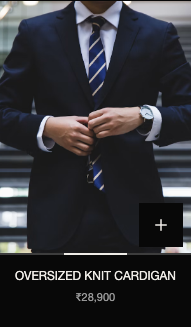
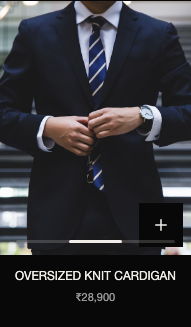
feat: simplify storefront navigation and smooth gallery gestures

Changed region(s): [[0.0, 0.7339, 1.0, 0.7951]]

diff --git a/client/components/shop/product-card-gallery.tsx b/client/components/shop/product-card-gallery.tsx
@@ -2,7 +2,7 @@
 
 import Link from 'next/link';
 import {ChevronLeft,ChevronRight} from 'lucide-react';
-import {useCallback,useEffect,useMemo,useRef,useState,type ReactNode} from 'react';
+import {useCallback,useEffect,useMemo,useRef,useState,type CSSProperties,type ReactNode} from 'react';
 import {SafeImage} from '@/components/shared/safe-image';
 import {useStorefrontReducedMotion} from '@/hooks/useStorefrontMotion';
 import {EDITORIAL_COPY as C} from '@/constants/editorial-copy';
@@ -18,7 +18,9 @@ export function ProductCardGallery({product,priority=false}:ProductCardGalleryPr
  const drag=useRef<MouseDrag|null>(null);
  const suppressClick=useRef(false);
  const scrollFrame=useRef(0);
+ const snapTimer=useRef<ReturnType<typeof setTimeout>|undefined>(undefined);
  const currentRef=useRef(0);
+ const measuredWidth=useRef(0);
  const [current,setCurrent]=useState(0);
  const [dragging,setDragging]=useState(false);
  const images=useMemo(()=>{
@@ -35,7 +37,9 @@ export function ProductCardGallery({product,priority=false}:ProductCardGalleryPr
   setVisited(previous=>previous.has(target)?previous:new Set([...previous,target]));
   const immediate=instant||reduced;
   if(immediate){currentRef.current=target;setCurrent(target);}
-  element.scrollTo({left:target*element.clientWidth,behavior:immediate?'auto':'smooth'});
+  clearTimeout(snapTimer.current);element.style.scrollSnapType='none';
+  element.scrollTo({left:target*element.clientWidth,behavior:immediate?'instant':'smooth'});
+  snapTimer.current=setTimeout(()=>{element.style.scrollSnapType='';},immediate?0:600);
  },[images.length,reduced]);
  useEffect(()=>{
   currentRef.current=0;setCurrent(0);setVisited(new Set([0]));
@@ -43,32 +47,32 @@ export function ProductCardGallery({product,priority=false}:ProductCardGalleryPr
  },[product.id,identity]);
  useEffect(()=>{
   const element=viewport.current;if(!element)return;
-  let width=element.clientWidth;
-  const observer=new ResizeObserver(()=>{const next=element.clientWidth;if(next>0&&Math.abs(next-width)>.5){width=next;goTo(currentRef.current,true);}});observer.observe(element);
-  return()=>{observer.disconnect();cancelAnimationFrame(scrollFrame.current);};
+  let width=element.clientWidth;measuredWidth.current=width;
+  const observer=new ResizeObserver(()=>{const next=element.clientWidth;if(next>0&&Math.abs(next-width)>.5){width=next;measuredWidth.current=next;goTo(currentRef.current,true);}});observer.observe(element);
+  return()=>{observer.disconnect();cancelAnimationFrame(scrollFrame.current);clearTimeout(snapTimer.current);};
  },[goTo]);
  const position=C.imagePosition.replace('{current}',String(current+1)).replace('{total}',String(images.length));
  return <div className="product-card-gallery" role="group" aria-roledescription={images.length>1?C.imageCarousel:undefined} aria-label={C.productImages.replace('{product}',product.title)} data-image-count={images.length} data-active-image={current+1}>
-  <div ref={viewport} className="product-card-gallery-viewport" data-dragging={dragging} tabIndex={images.length>1?0:undefined} data-lenis-prevent-wheel
-   onScroll={()=>{cancelAnimationFrame(scrollFrame.current);scrollFrame.current=requestAnimationFrame(()=>{const element=viewport.current;if(!element?.clientWidth)return;const index=Math.max(0,Math.min(images.length-1,Math.round(element.scrollLeft/element.clientWidth)));currentRef.current=index;setCurrent(index);setVisited(previous=>previous.has(index)?previous:new Set([...previous,index]));});}}
+  <div ref={viewport} className="product-card-gallery-viewport" data-dragging={dragging} tabIndex={images.length>1?0:undefined} data-lenis-prevent
+   onScroll={()=>{cancelAnimationFrame(scrollFrame.current);scrollFrame.current=requestAnimationFrame(()=>{const element=viewport.current;if(!element?.clientWidth)return;if(Math.abs(element.clientWidth-measuredWidth.current)>.5){measuredWidth.current=element.clientWidth;goTo(currentRef.current,true);return;}const index=Math.max(0,Math.min(images.length-1,Math.round(element.scrollLeft/element.clientWidth)));currentRef.current=index;setCurrent(index);setVisited(previous=>previous.has(index)?previous:new Set([...previous,index]));});}}
    onKeyDown={event=>{if(images.length<2||event.altKey||event.ctrlKey||event.metaKey)return;const next=event.key==='ArrowRight'?currentRef.current+1:event.key==='ArrowLeft'?currentRef.current-1:event.key==='Home'?0:event.key==='End'?images.length-1:null;if(next!==null){event.preventDefault();goTo(next);}}}
    onDragStart={event=>event.preventDefault()}
    onPointerDown={event=>{suppressClick.current=false;if(images.length<2||event.pointerType!=='mouse'||event.button!==0)return;const element=event.currentTarget;drag.current={pointer:event.pointerId,x:event.clientX,y:event.clientY,left:element.scrollLeft,index:currentRef.current,active:false};}}
-   onPointerMove={event=>{const gesture=drag.current;if(!gesture||gesture.pointer!==event.pointerId)return;const dx=event.clientX-gesture.x,dy=event.clientY-gesture.y;if(!gesture.active){if(Math.abs(dx)<motion.dragStart||Math.abs(dx)<=Math.abs(dy))return;gesture.active=true;suppressClick.current=true;setDragging(true);event.currentTarget.setPointerCapture(event.pointerId);}event.preventDefault();event.currentTarget.scrollLeft=gesture.left-dx;}}
-   onPointerUp={event=>{const gesture=drag.current;drag.current=null;if(!gesture?.active)return;setDragging(false);if(event.currentTarget.hasPointerCapture(event.pointerId))event.currentTarget.releasePointerCapture(event.pointerId);const distance=event.clientX-gesture.x,width=event.currentTarget.clientWidth;const steps=Math.abs(distance)>Math.min(width*motion.swipeFraction,motion.maxSwipeThreshold)?Math.max(1,Math.round(Math.abs(distance)/width)):0;const target=gesture.index+(distance<0?steps:-steps);requestAnimationFrame(()=>goTo(target));}}
+   onPointerMove={event=>{const gesture=drag.current;if(!gesture||gesture.pointer!==event.pointerId)return;const dx=event.clientX-gesture.x,dy=event.clientY-gesture.y;if(!gesture.active){if(Math.abs(dx)<motion.dragStart||Math.abs(dx)<=Math.abs(dy))return;gesture.active=true;suppressClick.current=true;setDragging(true);event.currentTarget.dataset.dragging='true';event.currentTarget.setPointerCapture(event.pointerId);}event.preventDefault();event.currentTarget.scrollLeft=gesture.left-dx;}}
+   onPointerUp={event=>{const gesture=drag.current;drag.current=null;if(!gesture?.active)return;setDragging(false);if(event.currentTarget.hasPointerCapture(event.pointerId))event.currentTarget.releasePointerCapture(event.pointerId);const distance=event.clientX-gesture.x,width=event.currentTarget.clientWidth;const steps=Math.abs(distance)>Math.min(width*motion.swipeFraction,motion.maxSwipeThreshold)?Math.max(1,Math.round(Math.abs(distance)/width)):0;const target=gesture.index+(distance<0?steps:-steps);goTo(target);}}
    onPointerCancel={()=>{const gesture=drag.current;drag.current=null;if(!gesture?.active)return;setDragging(false);goTo(currentRef.current,true);}}
    onLostPointerCapture={()=>{drag.current=null;setDragging(false);}}
    onClickCapture={event=>{if(suppressClick.current&&event.detail!==0){event.preventDefault();event.stopPropagation();suppressClick.current=false;}}}
   >
    {images.map((image,index)=><div className="product-card-gallery-slide" key={image.url} aria-hidden={index!==current}>
     <Link href={`/product/${product.slug}`} aria-label={product.title} tabIndex={index===current?0:-1} draggable={false}>
-     {(Math.abs(index-current)<=1||visited.has(index))&&<SafeImage src={image.url} alt={image.alt||product.title} fill sizes="(min-width:1024px) 25vw, 50vw" priority={priority&&index===0} loading={index===0?(priority?undefined:'lazy'):index===current?'eager':'lazy'} className="editorial-product-image" draggable={false}/>}
+     {(Math.abs(index-current)<=2||visited.has(index))&&<SafeImage src={image.url} alt={image.alt||product.title} fill sizes="(min-width:1024px) 25vw, 50vw" priority={priority&&index===0} loading={index===0?(priority?undefined:'lazy'):'eager'} className="editorial-product-image" draggable={false}/>}
     </Link>
    </div>)}
   </div>
   {images.length>1&&<>
    <div className="product-card-gallery-arrows"><button type="button" onClick={()=>goTo(currentRef.current-1)} disabled={current===0} aria-label={C.previousProductImage.replace('{product}',product.title)}><ChevronLeft size={18} strokeWidth={1.3}/></button><button type="button" onClick={()=>goTo(currentRef.current+1)} disabled={current===images.length-1} aria-label={C.nextProductImage.replace('{product}',product.title)}><ChevronRight size={18} strokeWidth={1.3}/></button></div>
-   <div className="product-card-gallery-progress" role="progressbar" aria-label={C.imageProgress} aria-valuemin={1} aria-valuemax={images.length} aria-valuenow={current+1} aria-valuetext={position}>{images.map((image,index)=><span key={image.url} data-active={index===current}/>)}</div>
+   <div className="product-card-gallery-progress" role="progressbar" aria-label={C.imageProgress} aria-valuemin={1} aria-valuemax={images.length} aria-valuenow={current+1} aria-valuetext={position} style={{'--gallery-count':images.length,'--gallery-index':current} as CSSProperties}>{images.map((image,index)=><span key={image.url} data-active={index===current}/>)}</div>
    <span className="sr-only" aria-live="polite" aria-atomic="true">{position}</span>
   </>}
  </div>;

diff --git a/client/components/shop/product-listing-page.tsx b/client/components/shop/product-listing-page.tsx
@@ -193,8 +193,8 @@ export function ProductListingPage({ pageType, pageSlug, eyebrow = COPY.shop.eye
   const chips = useMemo<FilterChip[]>(() => {
     const sourceTags: FilterChip[] = (tags.data ?? []).filter((tag) => tag.isVisible).map((tag) => ({ label: tag.name, value: tag.slug, kind: tag.slug === 'view-all' ? 'clear' : 'tag' }));
     if ((categories.data?.length??0) === 0 && sourceTags.length > 0) return sourceTags;
-    return [{ label: 'View All', value: 'view-all', kind: 'clear' }, ...(categories.data ?? []).filter((item) => item.showInFilters !== false).map((item) => ({ label: item.name, value: item.path ?? item.slug, kind: 'category' as const }))];
-  }, [categories.data, tags.data]);
+    return [{ label: 'View All', value: 'view-all', kind: 'clear' }, ...(categories.data ?? []).filter((item) => item.showInFilters !== false && (!pathname.startsWith('/men') && !pathname.startsWith('/women') || (item.path??'').startsWith(pathname.startsWith('/men')?'men/':'women/'))).map((item) => ({ label: item.name, value: item.path ?? item.slug, kind: 'category' as const }))];
+  }, [categories.data, tags.data, pathname]);
 
   const pushParams = (updates: Record<string, string | null>): void => {
     const next = new URLSearchParams(params.toString());
@@ -238,11 +238,8 @@ export function ProductListingPage({ pageType, pageSlug, eyebrow = COPY.shop.eye
 
   return <main className="collection-page">
     <h1 className="sr-only">{pageTitle}</h1>
-    {showCollectionCarousel && (siteSettings.data?.isCollectionCarouselEnabled ?? true) && (collections.data?.length ?? 0)>0 && <div className="collection-carousel"><CollectionCarousel collections={collections.data??[]} activeSlug={collectionSlug}/></div>}
-    {configuredHero && heroMediaVisible && <div data-testid="listing-hero-media" className="collection-campaign">{heroVideo?<video poster={videoPoster} autoPlay={!reducedMotion&&(categoryData?.videoAutoplay??true)} muted loop={categoryData?.videoLoop??true} playsInline controls={reducedMotion} preload="metadata"><source media="(max-width:639px)" src={mobileHeroVideo}/><source src={heroVideo}/></video>:<>{heroImage&&<Image src={heroImage} alt={pageTitle} fill sizes="100vw" className="hidden object-cover sm:block"/>}{mobileHeroImage&&<Image src={mobileHeroImage} alt={pageTitle} fill sizes="100vw" className="object-cover sm:hidden"/>}</>}<div><h2>{pageTitle}</h2><p>{rawPageSubtitle}</p></div></div>}
-    {bannerVisible&&(bannerImage||bannerVideo||bannerTitle)&&<section className="collection-banner">{(bannerImage||bannerVideo)&&<div className="collection-banner-media">{bannerVideo?<video autoPlay={!reducedMotion} muted loop playsInline controls={reducedMotion} preload="metadata"><source media="(max-width:639px)" src={mobileBannerVideo}/><source src={bannerVideo}/></video>:<>{bannerImage&&<Image src={bannerImage} alt={bannerTitle??pageTitle} fill sizes="100vw" className="hidden object-cover sm:block"/>}{mobileBannerImage&&<Image src={mobileBannerImage} alt={bannerTitle??pageTitle} fill sizes="100vw" className="object-cover sm:hidden"/>}</>}</div>}<div>{bannerTitle&&<h2>{bannerTitle}</h2>}{bannerSubtitle&&<p>{bannerSubtitle}</p>}{settings?.ctaText&&bannerLink.success&&<a href={bannerLink.data}>{settings.ctaText}</a>}</div></section>}
     {filtersVisible&&<nav className="collection-categories" aria-label="Product categories">{chips.map(chip=><button type="button" key={chip.kind+chip.value} aria-pressed={activeCategory===chip.value||activeTags===chip.value||(chip.kind==='clear'&&!activeCategory&&!activeTags)} onClick={()=>selectChip(chip)}>{chip.label}</button>)}</nav>}
-    <div className="collection-toolbar" data-testid="listing-toolbar"><button type="button" ref={filterTrigger} className="collection-filter-trigger" onClick={()=>setAdvancedOpen(true)} disabled={!advancedVisible}><SlidersHorizontal size={18} strokeWidth={1.2}/>{C.filters}</button><button type="button" className="collection-window-toggle" aria-label={dense?C.regularGrid:C.denseGrid} aria-pressed={dense} title={dense?C.regularGrid:C.denseGrid} onClick={toggleDensity}><svg viewBox="0 0 32 40" aria-hidden="true"><path d="M5 37V16a11 11 0 0 1 22 0v21Z"/><path d="M16 5v32M5 20h22M5 29h22"/><path className="collection-window-left" d="M5 20 1 16V5l4 11v21l-4-5V16"/><path className="collection-window-right" d="m27 20 4-4V5l-4 11v21l4-5V16"/></svg></button><SortSelect value={sort} onChange={updateSort}/></div>
+    <div className="collection-toolbar" data-testid="listing-toolbar"><button type="button" ref={filterTrigger} className="collection-filter-trigger" onClick={()=>setAdvancedOpen(true)} disabled={!advancedVisible}><SlidersHorizontal size={18} strokeWidth={1.2}/>{C.filters}</button><button type="button" className="collection-window-toggle" aria-label={dense?C.regularGrid:C.denseGrid} aria-pressed={dense} title={dense?C.regularGrid:C.denseGrid} onClick={toggleDensity}><svg viewBox="0 0 32 32" aria-hidden="true"><path className="view-depth" d="m6 7 3-2h18v20l-3 2"/><rect x="5" y="7" width="20" height="20" rx="3"/><path d={dense?'M10 7v20m5-20v20m5-20v20M5 12h20M5 17h20M5 22h20':'M15 7v20M5 17h20'}/></svg></button><SortSelect value={sort} onChange={updateSort}/></div>
     {appliedVariantFilters.length>0&&<div className="collection-applied" aria-label="Applied product filters">{appliedVariantFilters.map(filter=><button type="button" key={filter.key} onClick={()=>pushParams({[filter.key]:null})} aria-label={`Remove ${filter.label}`}>{filter.label} ×</button>)}<button type="button" onClick={clearAdvanced}>{C.clear}</button></div>}
     <section aria-label={pageTitle} aria-busy={products.isFetching}>
       {products.isLoading?<div className="collection-product-grid" aria-label={C.loading}>{[0,1,2,3].map(index=><SkeletonCard key={index}/>)}</div>:products.isError?<div className="collection-empty" role="alert"><h2>{C.loadError}</h2><button type="button" onClick={()=>void products.refetch()}>{C.retry}</button></div>:items.length>0?<div className="collection-product-grid" data-view={view} data-density={dense?'dense':'regular'}>{items.map((product,index)=><EditorialProductCard key={product.id} product={product} priority={index<4}/>)}</div>:<EmptyState title={COPY.shop.emptyTitle} body={COPY.cart.emptyBody} cta={COPY.shop.emptyCta} href={pathname}/>}

diff --git a/client/components/layout/navbar.tsx b/client/components/layout/navbar.tsx
@@ -1,5 +1,6 @@
 // Governed by .rules v1.0
 'use client';
+import {storefrontNavigation,storefrontDepartments} from '@/lib/storefront-navigation';
 
 import { Heart, Search, ShoppingBag } from 'lucide-react';
 import { motion } from 'framer-motion';
@@ -40,7 +41,7 @@ export function Navbar(_props: NavbarProps): ReactNode {
   const navigation = useNavigation();
   const siteSettings = useSiteSettings();
   const isNavigationVisible = siteSettings.data?.isStorefrontNavigationVisible ?? true;
-  const navItems = useMemo(() => (isNavigationVisible ? (navigation.data ?? []).filter((item) => item.isVisible) : []), [isNavigationVisible, navigation.data]);
+  const navItems = useMemo(() => (isNavigationVisible ? storefrontNavigation(navigation.data ?? []) : []), [isNavigationVisible, navigation.data]);
   const activeItem = navItems.find((item) => navId(item) === activeId) ?? null;
   const defaultMenuItem = useMemo(() => {
     const routeItem = navItems.find((item) => item.href !== '/' && pathname.startsWith(item.href) && item.isMegaMenuEnabled);
@@ -105,7 +106,7 @@ export function Navbar(_props: NavbarProps): ReactNode {
           </button>
         </div>
       </div>
-      {!isProduct&&!isCatalogue&&!mobile&&isNavigationVisible&&<nav className="editorial-header-links" aria-label="Shopping departments">{navItems.filter(item=>item.href!=='/').slice(0,8).map(item=><Link href={item.href} key={navId(item)}>{item.label}</Link>)}</nav>}
+      {!isProduct&&!isCatalogue&&!mobile&&isNavigationVisible&&<nav className="editorial-header-links" aria-label="Shopping departments">{(isHomepage?storefrontDepartments.slice(0,2):navItems).map(item=><Link href={item.href} key={item.href}>{item.label}</Link>)}</nav>}
       <MobileNav
         open={mobile}
         onOpenChange={setMobile}
@@ -120,40 +121,4 @@ export function Navbar(_props: NavbarProps): ReactNode {
   );
 }
 
-function AnimatedMenuButton({ open, onClick }: { open: boolean; onClick: () => void }): ReactNode {
-  return (
-    <button
-      type="button"
-      aria-label={COPY.nav.menu}
-      aria-expanded={open}
-      onClick={onClick}
-      className="group relative flex h-11 w-11 items-center justify-center text-text-primary transition duration-300 hover:text-accent-gold"
-    >
-      <span className="sr-only">{COPY.nav.menu}</span>
-      <span data-testid="sleek-menu-mark" className="relative block h-[18px] w-7">
-        <motion.span
-          aria-hidden="true"
-          data-menu-line="top"
-          className="absolute left-0 top-0.5 h-px w-7 origin-center rounded-full bg-current"
-          animate={open ? { x: 2, y: 7, rotate: 45, width: 24, opacity: 1 } : { x: 0, y: 0, rotate: 0, width: 28, opacity: 1 }}
-          transition={{ duration: 0.28, ease: [0.25, 0.1, 0.25, 1] }}
-        />
-        <motion.span
-          aria-hidden="true"
-          data-menu-line="middle"
-          className="absolute left-1 top-2 h-px w-5 rounded-full bg-current"
-          animate={open ? { opacity: 0, x: 10, width: 0 } : { opacity: 0.78, x: 0, width: 20 }}
-          transition={{ duration: 0.22, ease: [0.25, 0.1, 0.25, 1] }}
-        />
-        <motion.span
-          aria-hidden="true"
-          data-menu-line="bottom"
-          className="absolute bottom-0.5 left-2 h-px w-3 origin-center rounded-full bg-current"
-          animate={open ? { x: -6, y: -7, rotate: -45, width: 24, opacity: 1 } : { x: 0, y: 0, rotate: 0, width: 12, opacity: 0.56 }}
-          transition={{ duration: 0.28, ease: [0.25, 0.1, 0.25, 1] }}
-        />
-      </span>
-      <span aria-hidden="true" className="pointer-events-none absolute inset-2 scale-75 rounded-full bg-accent-gold/0 blur-md transition duration-300 group-hover:scale-100 group-hover:bg-accent-gold/10" />
-    </button>
-  );
-}
+function AnimatedMenuButton({open,onClick}:{open:boolean;onClick:()=>void}):ReactNode{return <button type="button" aria-label={COPY.nav.menu} aria-expanded={open} onClick={onClick} className="cruisin-menu-control" data-open={open}><span/><span/></button>;}

diff --git a/client/components/product/image-gallery.tsx b/client/components/product/image-gallery.tsx
@@ -1,4 +1,5 @@
 'use client';
+import {useGalleryDrag} from '@/hooks/useGalleryDrag';
 import {useRef,useState,useEffect,type ReactNode} from 'react';
 import {ChevronLeft,ChevronRight} from 'lucide-react';
 import {SafeImage} from '@/components/shared/safe-image';
@@ -7,9 +8,10 @@ import {STOREFRONT_COPY as C} from '@/constants/storefront-copy';
 import type {ProductImage} from '@/types/product.types';
 export interface ImageGalleryProps {images:ProductImage[];}
 export function ImageGallery({images}:ImageGalleryProps):ReactNode{
+ const drag=useGalleryDrag();
  const gallery=images.length?images:[{url:'/cruisin-image-fallback.svg',alt:C.gallery,width:900,height:1200}];
  const track=useRef<HTMLDivElement>(null);const [active,setActive]=useState(0);const reduced=useStorefrontReducedMotion();const first=gallery[0]?.url;
  useEffect(()=>{setActive(0);track.current?.scrollTo({left:0,behavior:'instant'});},[first]);
  const move=(index:number):void=>{const node=track.current;const slide=node?.children[index] as HTMLElement|undefined;if(!node||!slide)return;node.scrollTo({left:slide.offsetLeft,behavior:reduced?'instant':'smooth'});};
- return <section className="pdp-gallery" aria-label={C.gallery}><div className="pdp-gallery-track" data-scroll-native ref={track} onScroll={()=>{const node=track.current;if(!node)return;const slides=Array.from(node.children) as HTMLElement[];let nearest=0;for(let i=1;i<slides.length;i++)if(Math.abs(slides[i].offsetLeft-node.scrollLeft)<Math.abs(slides[nearest].offsetLeft-node.scrollLeft))nearest=i;setActive(nearest);}}>{gallery.map((image,index)=><div className="pdp-gallery-slide" key={image.url}><SafeImage src={image.url} alt={image.alt} fill sizes="(min-width:1024px) 48vw, 100vw" priority={index<2} className="pdp-gallery-image"/></div>)}</div>{gallery.length>1&&<><div className="pdp-gallery-controls"><button type="button" aria-label={C.previous} disabled={active===0} onClick={()=>move(active-1)}><ChevronLeft size={18}/></button><button type="button" aria-label={C.next} disabled={active===gallery.length-1} onClick={()=>move(active+1)}><ChevronRight size={18}/></button><span aria-live="polite">{active+1} / {gallery.length}</span></div><div className="pdp-gallery-dots">{gallery.map((image,index)=><button key={image.url} type="button" aria-label={`${C.gallery} ${index+1}`} aria-current={active===index?'true':undefined} onClick={()=>move(index)}/>)}</div></>}</section>;
+ return <section className="pdp-gallery" aria-label={C.gallery}><div className="pdp-gallery-track" data-lenis-prevent data-scroll-native ref={track} {...drag} onScroll={()=>{const node=track.current;if(!node)return;const slides=Array.from(node.children) as HTMLElement[];let nearest=0;for(let i=1;i<slides.length;i++)if(Math.abs(slides[i].offsetLeft-node.scrollLeft)<Math.abs(slides[nearest].offsetLeft-node.scrollLeft))nearest=i;setActive(nearest);}}>{gallery.map((image,index)=><div className="pdp-gallery-slide" key={image.url}><SafeImage src={image.url} alt={image.alt} fill sizes="(min-width:1024px) 48vw, 100vw" priority={index<2} className="pdp-gallery-image" draggable={false}/></div>)}</div>{gallery.length>1&&<><div className="pdp-gallery-controls"><button type="button" aria-label={C.previous} disabled={active===0} onClick={()=>move(active-1)}><ChevronLeft size={18}/></button><button type="button" aria-label={C.next} disabled={active===gallery.length-1} onClick={()=>move(active+1)}><ChevronRight size={18}/></button><span aria-live="polite">{active+1} / {gallery.length}</span></div><div className="pdp-gallery-dots">{gallery.map((image,index)=><button key={image.url} type="button" aria-label={`${C.gallery} ${index+1}`} aria-current={active===index?'true':undefined} onClick={()=>move(index)}/>)}</div></>}</section>;
 }

diff --git a/client/e2e/product-card-gallery.spec.ts b/client/e2e/product-card-gallery.spec.ts
@@ -24,7 +24,7 @@ async function touch(page:Page,x1:number,y1:number,x2:number,y2:number):Promise<
 
 test('desktop arrows and keyboard browse real card photos, and a normal photo click opens the product',async({page,request})=>{
  const {card,gallery,viewport,product}=await openGallery(page,request);const starting=page.url();
- await expect(gallery.locator('img')).toHaveCount(2);
+ await expect(gallery.locator('img')).toHaveCount(3);
  await card.hover();await gallery.getByRole('button',{name:/Next image/}).click();await expect(gallery).toHaveAttribute('data-active-image','2');await expect(page).toHaveURL(starting);await expect(gallery.getByRole('progressbar')).toHaveAttribute('aria-valuenow','2');await settled(viewport,1);
  await viewport.focus();await page.keyboard.press('End');await expect(gallery).toHaveAttribute('data-active-image','3');await page.keyboard.press('Home');await expect(gallery).toHaveAttribute('data-active-image','1');await page.keyboard.press('ArrowRight');await expect(gallery).toHaveAttribute('data-active-image','2');
  await page.keyboard.press('Home');await expect(gallery).toHaveAttribute('data-active-image','1');await viewport.hover();const wheelWidth=await viewport.evaluate(el=>el.clientWidth);await page.mouse.wheel(wheelWidth*.7,0);await expect(gallery).toHaveAttribute('data-active-image','2');
@@ -57,7 +57,7 @@ test('the active photo survives responsive and window-grid changes, including re
  const {card,gallery,viewport}=await openGallery(page,request);await viewport.focus();await page.keyboard.press('ArrowRight');await expect(gallery).toHaveAttribute('data-active-image','2');
  for(const width of [375,768,1440]){await page.setViewportSize({width,height:1000});await expect(gallery).toHaveAttribute('data-active-image','2');await expect.poll(()=>viewport.evaluate(el=>Math.round(el.scrollLeft/el.clientWidth))).toBe(1);await expect.poll(()=>page.evaluate(()=>document.documentElement.scrollWidth<=innerWidth)).toBe(true);}
  await page.setViewportSize({width:390,height:844});await page.getByRole('button',{name:'Switch to window grid',exact:true}).click();await expect.poll(()=>viewport.evaluate(el=>Math.round(el.scrollLeft/el.clientWidth))).toBe(1);await expect(gallery).toHaveAttribute('data-active-image','2');
- await page.getByRole('button',{name:'Switch to regular grid',exact:true}).click();await page.getByRole('combobox',{name:'Color theme',exact:true}).selectOption('dark');await expect(page.locator('html')).toHaveClass(/dark/);await gallery.scrollIntoViewIfNeeded();expect((await new AxeBuilder({page}).include('.editorial-product-card').withTags(['wcag2a','wcag2aa']).analyze()).violations).toEqual([]);await settled(viewport,1);await card.screenshot({path:resolve('../docs/qa/screenshots/cruisin-v2-card-gallery-mobile-dark.png')});
+ await page.getByRole('button',{name:'Switch to regular grid',exact:true}).click();await page.getByRole('button',{name:'Open Cruisin quick menu',exact:true}).click();await page.getByRole('button',{name:'Switch to dark mode',exact:true}).click();await expect(page.locator('html')).not.toHaveAttribute('data-theme-reveal','active');await page.keyboard.press('Escape');await expect(page.locator('html')).toHaveClass(/dark/);await gallery.scrollIntoViewIfNeeded();expect((await new AxeBuilder({page}).include('.editorial-product-card').withTags(['wcag2a','wcag2aa']).analyze()).violations).toEqual([]);await settled(viewport,1);await card.screenshot({path:resolve('../docs/qa/screenshots/cruisin-v2-card-gallery-mobile-dark.png')});
  await page.emulateMedia({reducedMotion:'reduce'});await viewport.focus();await page.keyboard.press('End');await expect(gallery).toHaveAttribute('data-active-image','3');await settled(viewport,2);
 });
 

diff --git a/client/components/layout/footer.tsx b/client/components/layout/footer.tsx
@@ -1,13 +1,12 @@
 'use client';
-import {useState,type ReactNode} from 'react';
+import {type ReactNode} from 'react';
 import Link from 'next/link';
 import {FooterWave} from './footer-wave';
 import {FooterSignature} from './footer-signature';
-import {ThemeSelect} from '@cruisin/ui';
-import {ArrowUpRight,ArrowUp,Instagram,Pause,Play} from 'lucide-react';
+import {ArrowUpRight,ArrowUp,Instagram} from 'lucide-react';
 import {FOOTER_COPY as C} from '@/constants/footer-copy';
 export interface FooterProps {}
 export function Footer(_props:FooterProps):ReactNode{
- const [paused,setPaused]=useState(false);
- return <footer className="cruisin-glow-footer" data-paused={paused}><div className="cruisin-footer-art" aria-hidden="true"><div className="cruisin-footer-glow" aria-hidden="true"/><FooterWave paused={paused}/><div className="cruisin-footer-haze" aria-hidden="true"/></div><div className="cruisin-footer-panel"><div className="cruisin-footer-top"><nav aria-label="Storefront footer navigation">{C.navigation.map(link=><Link href={link.href} key={link.href}>{link.label}<ArrowUpRight size={16}/></Link>)}</nav><section className="cruisin-footer-contact"><div className="cruisin-footer-social"><a href={C.instagram} aria-label="Cruisin on Instagram" target="_blank" rel="noreferrer"><Instagram size={24}/></a><a href={C.facebook} aria-label="Cruisin on Facebook" target="_blank" rel="noreferrer">f</a></div><p>{C.contact}</p><a href={'mailto:'+C.email}>{C.email}</a></section></div></div><div className="cruisin-footer-bottom"><p>© {new Date().getFullYear()} {C.copyright}</p><nav aria-label="Store policies">{C.policies.map(link=><Link href={link.href} key={link.href}>{link.label}</Link>)}</nav><div><ThemeSelect/><button type="button" aria-label={paused?C.play:C.pause} aria-pressed={paused} onClick={()=>setPaused(!paused)}>{paused?<Play size={14}/>:<Pause size={14}/>}</button><a href="#main" aria-label={C.back}><ArrowUp size={16}/></a></div></div><FooterSignature/></footer>;
+
+ return <footer className="cruisin-glow-footer" ><div className="cruisin-footer-art" aria-hidden="true"><div className="cruisin-footer-glow" aria-hidden="true"/><FooterWave paused={false}/><div className="cruisin-footer-haze" aria-hidden="true"/></div><div className="cruisin-footer-panel"><div className="cruisin-footer-top"><nav aria-label="Storefront footer navigation">{C.navigation.map(link=><Link href={link.href} key={link.href}>{link.label}<ArrowUpRight size={16}/></Link>)}</nav><section className="cruisin-footer-contact"><div className="cruisin-footer-social"><a href={C.instagram} aria-label="Cruisin on Instagram" target="_blank" rel="noreferrer"><Instagram size={24}/></a><a href={C.facebook} aria-label="Cruisin on Facebook" target="_blank" rel="noreferrer">f</a></div><p>{C.contact}</p><a href={'mailto:'+C.email}>{C.email}</a></section></div></div><div className="cruisin-footer-bottom"><p>© {new Date().getFullYear()} {C.copyright}</p><nav aria-label="Store policies">{C.policies.map(link=><Link href={link.href} key={link.href}>{link.label}</Link>)}</nav><div><a href="#main" aria-label={C.back}><ArrowUp size={16}/></a></div></div><FooterSignature/></footer>;
 }

diff --git a/client/app/globals.css b/client/app/globals.css
@@ -1118,3 +1118,21 @@ html[data-theme-reveal=active],html[data-theme-reveal=active] *,html[data-theme-
 @keyframes cruisin-story-progress { from { transform:scaleX(0); } to { transform:scaleX(1); } }
 @media(min-width:768px) { .cruisin-hub-trigger { width:64px; height:64px; right:28px; bottom:28px; } .cruisin-hub-logo { width:44px; height:36px; } .cruisin-stories { height:min(calc(100dvh - 48px),920px); } }
 @media(prefers-reduced-motion:reduce) { .cruisin-hub-trigger,.cruisin-hub-trigger *,.cruisin-hub-menu,.cruisin-hub-menu>button,.cruisin-hub-menu>a,.cruisin-stories,.cruisin-stories-overlay { animation:none; transition:none; } .cruisin-story-progress i[data-current=true] { animation-play-state:paused; } }
+/* Minimal shopping controls and continuous image navigation. */
+.cruisin-menu-control { width:44px;height:44px;display:flex;flex-direction:column;align-items:center;justify-content:center;gap:7px; }
+.cruisin-menu-control span { width:23px;height:1px;background:currentColor;transition:transform .28s var(--storefront-ease); }
+.cruisin-menu-control[data-open=true] span:first-child { transform:translateY(4px) rotate(45deg); }
+.cruisin-menu-control[data-open=true] span:last-child { transform:translateY(-4px) rotate(-45deg); }
+.collection-window-toggle { border:1px solid var(--border-default);border-radius:12px;box-shadow:inset 0 1px 0 var(--bg-primary),0 3px 0 var(--border-subtle);background:var(--bg-primary);transition:transform .25s var(--storefront-ease),box-shadow .25s var(--storefront-ease); }
+.collection-window-toggle:hover { transform:translateY(-2px); }
+.collection-window-toggle:active { transform:translateY(1px);box-shadow:none; }
+.collection-window-toggle svg { width:28px;height:28px; }
+.collection-window-toggle .view-depth { opacity:.35; }
+.product-card-gallery-viewport,.pdp-gallery-track { touch-action:pan-x pan-y; -webkit-overflow-scrolling:touch; }
+.product-card-gallery-slide { scroll-snap-stop:normal; }
+.product-card-gallery-progress { inset:auto 16px 12px;height:3px;border-radius:8px;background:color-mix(in srgb,var(--text-primary) 18%,transparent);overflow:hidden; }
+.product-card-gallery-progress span { display:none; }
+.product-card-gallery-progress::after { content:'';width:calc(100% / var(--gallery-count));height:100%;border-radius:inherit;background:var(--text-primary);transform:translateX(calc(var(--gallery-index) * 100%));transition:transform .4s var(--storefront-ease); }
+
+@keyframes catalog-card-arrive { from { opacity:0;transform:translateY(8px); } to { opacity:1;transform:none; } }
+@media(prefers-reduced-motion:reduce) { .collection-product-grid .editorial-product-card { animation:none; } .product-card-gallery-progress::after,.cruisin-menu-control span,.collection-window-toggle { transition:none; } }

diff --git a/client/e2e/minimal-storefront.spec.ts b/client/e2e/minimal-storefront.spec.ts
@@ -1,0 +1,17 @@
+import {test,expect} from '@playwright/test';
+test('minimal departments, menu, catalog and footer on desktop and phone',async({page})=>{
+ for(const width of [1440,390]){
+  await page.setViewportSize({width,height:900});await page.goto('/');const departments=page.getByRole('navigation',{name:'Shopping departments'});await expect(departments.getByRole('link')).toHaveText(['Men','Women']);
+  await departments.getByRole('link',{name:'Men',exact:true}).click();await expect(page).toHaveURL(/\/men$/);await expect(page.getByRole('navigation',{name:'Product categories'})).toBeVisible();
+  await expect(page.locator('[data-testid="listing-hero-media"],.collection-banner,.collection-carousel')).toHaveCount(0);
+  await expect(page.locator('footer select,footer button')).toHaveCount(0);
+  await page.getByRole('button',{name:'Menu',exact:true}).click();const roots=page.locator('.minimal-menu-primary nav .minimal-menu-root');await expect(roots).toHaveText(['Men','Women','Collections','Sale']);await page.keyboard.press('Escape');
+  expect(await page.evaluate(()=>document.documentElement.scrollWidth<=innerWidth)).toBe(true);
+ }
+});
+
+test('product gallery supports desktop drag and native phone swipes',async({page})=>{
+ await page.goto('/product/oversized-knit-cardigan');const track=page.locator('.pdp-gallery-track');await expect(track.locator('.pdp-gallery-slide')).toHaveCount(2);await track.scrollIntoViewIfNeeded();let box=await track.boundingBox();if(!box)throw new Error('Gallery missing');
+ await page.mouse.move(box.x+box.width*.7,box.y+box.height*.4);await page.mouse.down();await page.mouse.move(box.x+box.width*.2,box.y+box.height*.4,{steps:14});await page.mouse.up();await expect.poll(()=>track.evaluate(el=>el.scrollLeft)).toBeGreaterThan(100);
+ await page.setViewportSize({width:390,height:844});await page.reload();await track.scrollIntoViewIfNeeded();box=await track.boundingBox();if(!box)throw new Error('Gallery missing');const cdp=await page.context().newCDPSession(page);await cdp.send('Emulation.setTouchEmulationEnabled',{enabled:true});const y=box.y+Math.min(box.height*.4,300);await cdp.send('Input.dispatchTouchEvent',{type:'touchStart',touchPoints:[{x:330,y}]});for(let step=1;step<=10;step++){await cdp.send('Input.dispatchTouchEvent',{type:'touchMove',touchPoints:[{x:330-step*25,y}]});await page.waitForTimeout(20);}await cdp.send('Input.dispatchTouchEvent',{type:'touchEnd',touchPoints:[]});await expect.poll(()=>track.evaluate(el=>el.scrollLeft)).toBeGreaterThan(100);await cdp.detach();
+});

diff --git a/client/hooks/useGalleryDrag.ts b/client/hooks/useGalleryDrag.ts
@@ -1,0 +1,12 @@
+'use client';
+import {useRef,type PointerEvent,type DragEvent} from 'react';
+export function useGalleryDrag(){
+ const gesture=useRef<{x:number;y:number;left:number;active:boolean}|null>(null);
+ return {
+ onDragStart:(event:DragEvent<HTMLDivElement>):void=>event.preventDefault(),
+ onPointerDown:(event:PointerEvent<HTMLDivElement>):void=>{if(event.pointerType==='mouse'&&event.button===0)gesture.current={x:event.clientX,y:event.clientY,left:event.currentTarget.scrollLeft,active:false};},
+ onPointerMove:(event:PointerEvent<HTMLDivElement>):void=>{const drag=gesture.current;if(!drag)return;const dx=event.clientX-drag.x;if(!drag.active){if(Math.abs(dx)<6||Math.abs(dx)<Math.abs(event.clientY-drag.y))return;drag.active=true;event.currentTarget.style.scrollSnapType='none';event.currentTarget.setPointerCapture(event.pointerId);}event.preventDefault();event.currentTarget.scrollLeft=drag.left-dx;},
+ onPointerUp:(event:PointerEvent<HTMLDivElement>):void=>{const drag=gesture.current;gesture.current=null;if(!drag?.active)return;const node=event.currentTarget;const slides=Array.from(node.children) as HTMLElement[];const direction=event.clientX<drag.x?1:-1;const start=slides.reduce((best,slide,index)=>Math.abs(slide.offsetLeft-drag.left)<Math.abs(slides[best].offsetLeft-drag.left)?index:best,0);const target=slides[Math.max(0,Math.min(slides.length-1,start+(Math.abs(event.clientX-drag.x)>40?direction:0)))];if(target)node.scrollTo({left:target.offsetLeft,behavior:matchMedia('(prefers-reduced-motion:reduce)').matches?'instant':'smooth'});window.setTimeout(()=>{node.style.scrollSnapType='';},600);},
+ onPointerCancel:(event:PointerEvent<HTMLDivElement>):void=>{gesture.current=null;event.currentTarget.style.scrollSnapType='';},
+ };
+}

diff --git a/client/playwright.editorial.config.ts b/client/playwright.editorial.config.ts
@@ -1,4 +1,4 @@
 import {defineConfig,devices} from '@playwright/test';
 const origin=process.env.PLAYWRIGHT_STOREFRONT_URL??'http://127.0.0.1:3192';
 for(const value of [origin,process.env.PLAYWRIGHT_ADMIN_URL??'http://127.0.0.1:3193',process.env.PLAYWRIGHT_API_URL??'http://127.0.0.1:8192'])if(!['127.0.0.1','localhost'].includes(new URL(value).hostname))throw new Error('Editorial acceptance refuses nonlocal targets');
-export default defineConfig({testDir:'./e2e',testMatch:[/cruisin-hub-appearance\.spec\.ts/,/cruisin-hub\.spec\.ts/,/product-card-gallery\.spec\.ts/,/auth-swipe\.spec\.ts/,/auth\.spec\.ts/,/auth-branding\.spec\.ts/,/cruisin-workspace\.spec\.ts/,/header-tagline\.spec\.ts/,/listing-editorial-header\.spec\.ts/,/photographic-storefront\.spec\.ts/,/cms-studio\.spec\.ts/,/editorial-cms\.spec\.ts/,/cms-publication-isolation\.spec\.ts/],workers:1,timeout:120000,retries:0,use:{baseURL:origin,trace:'retain-on-failure',screenshot:'only-on-failure'},projects:[{name:'chromium',use:{...devices['Desktop Chrome'],viewport:{width:1440,height:1000}}}]});
+export default defineConfig({testDir:'./e2e',testMatch:[/minimal-storefront\.spec\.ts/,/cruisin-hub-appearance\.spec\.ts/,/cruisin-hub\.spec\.ts/,/product-card-gallery\.spec\.ts/,/auth-swipe\.spec\.ts/,/auth\.spec\.ts/,/auth-branding\.spec\.ts/,/cruisin-workspace\.spec\.ts/,/header-tagline\.spec\.ts/,/listing-editorial-header\.spec\.ts/,/photographic-storefront\.spec\.ts/,/cms-studio\.spec\.ts/,/editorial-cms\.spec\.ts/,/cms-publication-isolation\.spec\.ts/],workers:1,timeout:120000,retries:0,use:{baseURL:origin,trace:'retain-on-failure',screenshot:'only-on-failure'},projects:[{name:'chromium',use:{...devices['Desktop Chrome'],viewport:{width:1440,height:1000}}}]});

diff --git a/client/lib/storefront-motion.ts b/client/lib/storefront-motion.ts
@@ -1,6 +1,6 @@
 export const storefrontEase=[0.22,1,0.36,1] as const;
-export const storefrontMotion=(reduced:boolean):{pageDuration:number;revealDistance:number;smoothWheel:boolean}=>({pageDuration:reduced?0:0.55,revealDistance:reduced?0:20,smoothWheel:!reduced});
-export const storefrontReveal={initial:{opacity:0,y:20},animate:{opacity:1,y:0,transition:{duration:0.65,ease:storefrontEase}}};
+export const storefrontMotion=(reduced:boolean):{pageDuration:number;revealDistance:number;smoothWheel:boolean}=>({pageDuration:reduced?0:0.32,revealDistance:reduced?0:20,smoothWheel:!reduced});
+export const storefrontReveal={initial:{opacity:0,y:8},animate:{opacity:1,y:0,transition:{duration:0.35,ease:storefrontEase}}};
 export const storefrontHeroImage={initial:{scale:1.04},animate:{scale:1,transition:{duration:1.3,ease:storefrontEase}}};
 export const storefrontHeroCaption={initial:{opacity:0,y:18},animate:{opacity:1,y:0,transition:{duration:0.8,delay:0.12,ease:storefrontEase}}};
 export const storefrontFilterPanel={initial:{x:'-100%'},animate:{x:0,transition:{duration:0.55,ease:storefrontEase}},exit:{x:'-100%',transition:{duration:0.4,ease:storefrontEase}}};

diff --git a/client/app/(shop)/template.tsx b/client/app/(shop)/template.tsx
@@ -1,10 +1,12 @@
 'use client';
 import {useStorefrontReducedMotion} from '@/hooks/useStorefrontMotion';
+import {usePathname} from 'next/navigation';
 import {motion} from 'framer-motion';
 import type {ReactNode} from 'react';
 import {storefrontEase,storefrontMotion} from '@/lib/storefront-motion';
 export interface StorefrontTemplateProps {children:ReactNode;}
 export default function StorefrontTemplate({children}:StorefrontTemplateProps):ReactNode{
+ const pathname=usePathname();
  const reduced=Boolean(useStorefrontReducedMotion());const preset=storefrontMotion(reduced);
- return <motion.div className="storefront-route-transition" data-motion={reduced?'reduced':'full'} initial={reduced?false:{opacity:0,y:12}} animate={{opacity:1,y:0}} transition={{duration:preset.pageDuration,ease:storefrontEase}}>{children}</motion.div>;
+ return <motion.div key={pathname} className="storefront-route-transition" data-motion={reduced?'reduced':'full'} initial={reduced?false:{opacity:0,y:12}} animate={{opacity:1,y:0}} transition={{duration:preset.pageDuration,ease:storefrontEase}}>{children}</motion.div>;
 }
